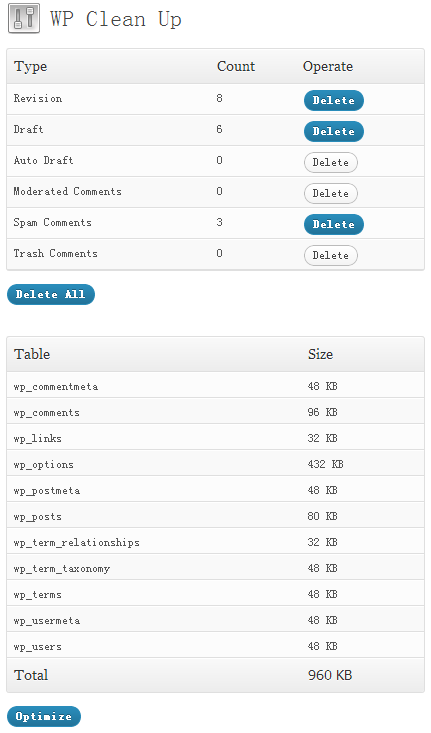
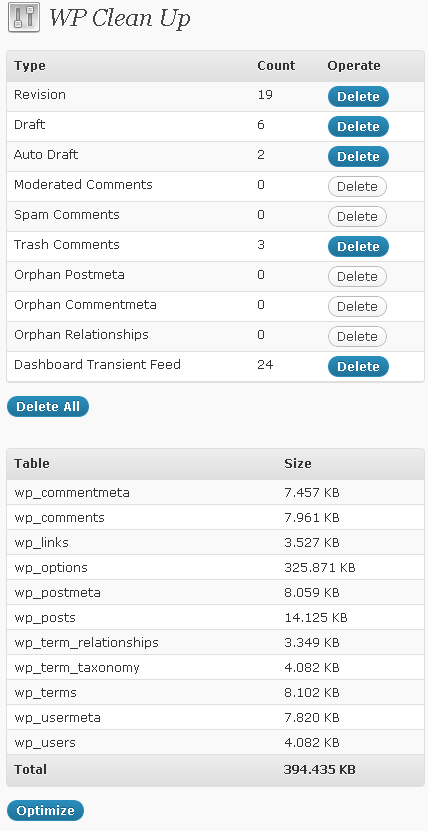
wrg3uwg834
git-svn-id: https://plugins.svn.wordpress.org/wp-clean-up/trunk@638346 b8457f37-d9ea-0310-8a92-e5e31aec5664

diff --git a/wp_clean_up_admin.php b/wp_clean_up_admin.php
@@ -37,6 +37,23 @@ function wp_clean_up($type){
 			$wcu_sql = "DELETE FROM $wpdb->comments WHERE comment_approved = 'trash'";
 			$wpdb->query($wcu_sql);
 			break;
+		case "postmeta":
+			$wcu_sql = "DELETE pm FROM $wpdb->postmeta pm LEFT JOIN $wpdb->posts wp ON wp.ID = pm.post_id WHERE wp.ID IS NULL";
+			//$wcu_sql = "DELETE FROM $wpdb->postmeta WHERE NOT EXISTS ( SELECT * FROM $wpdb->posts WHERE $wpdb->postmeta.post_id = $wpdb->posts.ID )";
+			$wpdb->query($wcu_sql);
+			break;
+		case "commentmeta":
+			$wcu_sql = "DELETE FROM $wpdb->commentmeta WHERE comment_id NOT IN (SELECT comment_id FROM $wpdb->comments)";
+			$wpdb->query($wcu_sql);
+			break;
+		case "relationships":
+			$wcu_sql = "DELETE FROM $wpdb->term_relationships WHERE term_taxonomy_id=1 AND object_id NOT IN (SELECT id FROM $wpdb->posts)";
+			$wpdb->query($wcu_sql);
+			break;
+		case "feed":
+			$wcu_sql = "DELETE FROM $wpdb->options WHERE option_name LIKE '_site_transient_browser_%' OR option_name LIKE '_site_transient_timeout_browser_%' OR option_name LIKE '_transient_feed_%' OR option_name LIKE '_transient_timeout_feed_%'";
+			$wpdb->query($wcu_sql);
+			break;
 	}
 }
 
@@ -67,8 +84,34 @@ function wp_clean_up_count($type){
 			$wcu_sql = "SELECT COUNT(*) FROM $wpdb->comments WHERE comment_approved = 'trash'";
 			$count = $wpdb->get_var($wcu_sql);
 			break;
+		case "postmeta":
+			$wcu_sql = "SELECT COUNT(*) FROM $wpdb->postmeta pm LEFT JOIN $wpdb->posts wp ON wp.ID = pm.post_id WHERE wp.ID IS NULL";
+			//$wcu_sql = "SELECT COUNT(*) FROM $wpdb->postmeta WHERE NOT EXISTS ( SELECT * FROM $wpdb->posts WHERE $wpdb->postmeta.post_id = $wpdb->posts.ID )";
+			$count = $wpdb->get_var($wcu_sql);
+			break;
+		case "commentmeta":
+			$wcu_sql = "SELECT COUNT(*) FROM $wpdb->commentmeta WHERE comment_id NOT IN (SELECT comment_id FROM $wpdb->comments)";
+			$count = $wpdb->get_var($wcu_sql);
+			break;
+		case "relationships":
+			$wcu_sql = "SELECT COUNT(*) FROM $wpdb->term_relationships WHERE term_taxonomy_id=1 AND object_id NOT IN (SELECT id FROM $wpdb->posts)";
+			$count = $wpdb->get_var($wcu_sql);
+			break;
+		case "feed":
+			$wcu_sql = "SELECT COUNT(*) FROM $wpdb->options WHERE option_name LIKE '_site_transient_browser_%' OR option_name LIKE '_site_transient_timeout_browser_%' OR option_name LIKE '_transient_feed_%' OR option_name LIKE '_transient_timeout_feed_%'";
+			$count = $wpdb->get_var($wcu_sql);
+			break;
 	}
 	return $count;
+}
+
+function wp_clean_up_optimize(){
+	$wcu_sql = 'SHOW TABLE STATUS FROM '.DB_NAME;
+	$result = mysql_query($wcu_sql);
+	while($row = mysql_fetch_assoc($result)){
+		$wcu_sql = 'OPTIMIZE TABLE '.$row['Name'];
+		mysql_query($wcu_sql);
+	}
 }
 
 	$wcu_message = '';
@@ -103,6 +146,26 @@ function wp_clean_up_count($type){
 		$wcu_message = __("All trash comments deleted!","WP-Clean-Up");
 	}
 
+	if(isset($_POST['wp_clean_up_postmeta'])){
+		wp_clean_up('postmeta');
+		$wcu_message = __("All orphan postmeta deleted!","WP-Clean-Up");
+	}
+
+	if(isset($_POST['wp_clean_up_commentmeta'])){
+		wp_clean_up('commentmeta');
+		$wcu_message = __("All orphan commentmeta deleted!","WP-Clean-Up");
+	}
+
+	if(isset($_POST['wp_clean_up_relationships'])){
+		wp_clean_up('relationships');
+		$wcu_message = __("All orphan relationships deleted!","WP-Clean-Up");
+	}
+
+	if(isset($_POST['wp_clean_up_feed'])){
+		wp_clean_up('feed');
+		$wcu_message = __("All dashboard transient feed deleted!","WP-Clean-Up");
+	}
+
 	if(isset($_POST['wp_clean_up_all'])){
 		wp_clean_up('revision');
 		wp_clean_up('draft');
@@ -110,10 +173,15 @@ function wp_clean_up_count($type){
 		wp_clean_up('moderated');
 		wp_clean_up('spam');
 		wp_clean_up('trash');
+		wp_clean_up('postmeta');
+		wp_clean_up('commentmeta');
+		wp_clean_up('relationships');
+		wp_clean_up('feed');
 		$wcu_message = __("All redundant data deleted!","WP-Clean-Up");
 	}
 
 	if(isset($_POST['wp_clean_up_optimize'])){
+		wp_clean_up_optimize();
 		$wcu_message = __("Database Optimized!","WP-Clean-Up");
 	}
 
@@ -216,6 +284,62 @@ function wp_clean_up_count($type){
 				</form>
 			</td>
 		</tr>
+		<tr class="alternate">
+			<td class="column-name">
+				<?php _e('Orphan Postmeta','WP-Clean-Up'); ?>
+			</td>
+			<td class="column-name">
+				<?php echo wp_clean_up_count('postmeta'); ?>
+			</td>
+			<td class="column-name">
+				<form action="" method="post">
+					<input type="hidden" name="wp_clean_up_postmeta" value="postmeta" />
+					<input type="submit" class="<?php if(wp_clean_up_count('postmeta')>0){echo 'button-primary';}else{echo 'button';} ?>" value="<?php _e('Delete','WP-Clean-Up'); ?>" />
+				</form>
+			</td>
+		</tr>
+		<tr>
+			<td class="column-name">
+				<?php _e('Orphan Commentmeta','WP-Clean-Up'); ?>
+			</td>
+			<td class="column-name">
+				<?php echo wp_clean_up_count('commentmeta'); ?>
+			</td>
+			<td class="column-name">
+				<form action="" method="post">
+					<input type="hidden" name="wp_clean_up_commentmeta" value="commentmeta" />
+					<input type="submit" class="<?php if(wp_clean_up_count('commentmeta')>0){echo 'button-primary';}else{echo 'button';} ?>" value="<?php _e('Delete','WP-Clean-Up'); ?>" />
+				</form>
+			</td>
+		</tr>
+		<tr class="alternate">
+			<td class="column-name">
+				<?php _e('Orphan Relationships','WP-Clean-Up'); ?>
+			</td>
+			<td class="column-name">
+				<?php echo wp_clean_up_count('relationships'); ?>
+			</td>
+			<td class="column-name">
+				<form action="" method="post">
+					<input type="hidden" name="wp_clean_up_relationships" value="relationships" />
+					<input type="submit" class="<?php if(wp_clean_up_count('relationships')>0){echo 'button-primary';}else{echo 'button';} ?>" value="<?php _e('Delete','WP-Clean-Up'); ?>" />
+				</form>
+			</td>
+		</tr>
+		<tr>
+			<td class="column-name">
+				<?php _e('Dashboard Transient Feed','WP-Clean-Up'); ?>
+			</td>
+			<td class="column-name">
+				<?php echo wp_clean_up_count('feed'); ?>
+			</td>
+			<td class="column-name">
+				<form action="" method="post">
+					<input type="hidden" name="wp_clean_up_feed" value="feed" />
+					<input type="submit" class="<?php if(wp_clean_up_count('feed')>0){echo 'button-primary';}else{echo 'button';} ?>" value="<?php _e('Delete','WP-Clean-Up'); ?>" />
+				</form>
+			</td>
+		</tr>
 	</tbody>
 </table>
 </p>
@@ -240,34 +364,29 @@ function wp_clean_up_count($type){
 		$alternate = " class='alternate'";
 		$wcu_sql = 'SHOW TABLE STATUS FROM '.DB_NAME;
 		$result = mysql_query($wcu_sql);
-		if(mysql_num_rows($result)){
-			while($row = mysql_fetch_assoc($result)){
-				$table_size = $row['Data_length'] + $row['Index_length'];
-				$table_size = $table_size / 1024;
-				$table_size = round($table_size,3);
 
-				$every_size = $row['Data_length'] + $row['Index_length'];
-				$every_size = $every_size / 1024 ;
-				$total_size += $every_size;
+		while($row = mysql_fetch_assoc($result)){
 
-				if(isset($_POST['wp_clean_up_optimize'])){
-					$wcu_sql = 'OPTIMIZE TABLE '.$row['Name'];
-					mysql_query($wcu_sql);
-				}
+			$table_size = $row['Data_length'] + $row['Index_length'];
+			$table_size = $table_size / 1024;
+			$table_size = sprintf("%0.3f",$table_size);
 
-				echo "<tr". $alternate .">
-						<td class='column-name'>". $row['Name'] ."</td>
-						<td class='column-name'>". $table_size ." KB"."</td>
-					</tr>\n";
-				$alternate = (empty($alternate)) ? " class='alternate'" : "";
-			}
+			$every_size = $row['Data_length'] + $row['Index_length'];
+			$every_size = $every_size / 1024;
+			$total_size += $every_size;
+
+			echo "<tr". $alternate .">
+					<td class='column-name'>". $row['Name'] ."</td>
+					<td class='column-name'>". $table_size ." KB"."</td>
+				</tr>\n";
+			$alternate = (empty($alternate)) ? " class='alternate'" : "";
 		}
 	?>
 	</tbody>
 	<tfoot>
 		<tr>
 			<th scope="col"><?php _e('Total','WP-Clean-Up'); ?></th>
-			<th scope="col" style="font-family:Tahoma;"><?php echo round($total_size,3).' KB'; ?></th>
+			<th scope="col" style="font-family:Tahoma;"><?php echo sprintf("%0.3f",$total_size).' KB'; ?></th>
 		</tr>
 	</tfoot>
 </table>

diff --git a/wp-clean-up.php b/wp-clean-up.php
@@ -2,8 +2,8 @@
 /*
 Plugin Name: WP Clean Up
 Plugin URI: http://boliquan.com/wp-clean-up/
-Description: WP Clean Up can help us to clean up the wordpress database by removing "revision" "draft" "auto draft" "moderated comments" "spam comments" "trash comments". It allows you to optimize your WordPress database without phpMyAdmin.
-Version: 1.2.0
+Description: WP Clean Up can help us to clean up the wordpress database by removing "revision" "draft" "auto draft" "moderated comments" "spam comments" "trash comments" "orphan postmeta" "orphan commentmeta" "orphan relationships" "dashboard transient feed". It allows you to optimize your WordPress database without phpMyAdmin.
+Version: 1.2.1
 Author: BoLiQuan
 Author URI: http://boliquan.com/
 Text Domain: WP-Clean-Up
